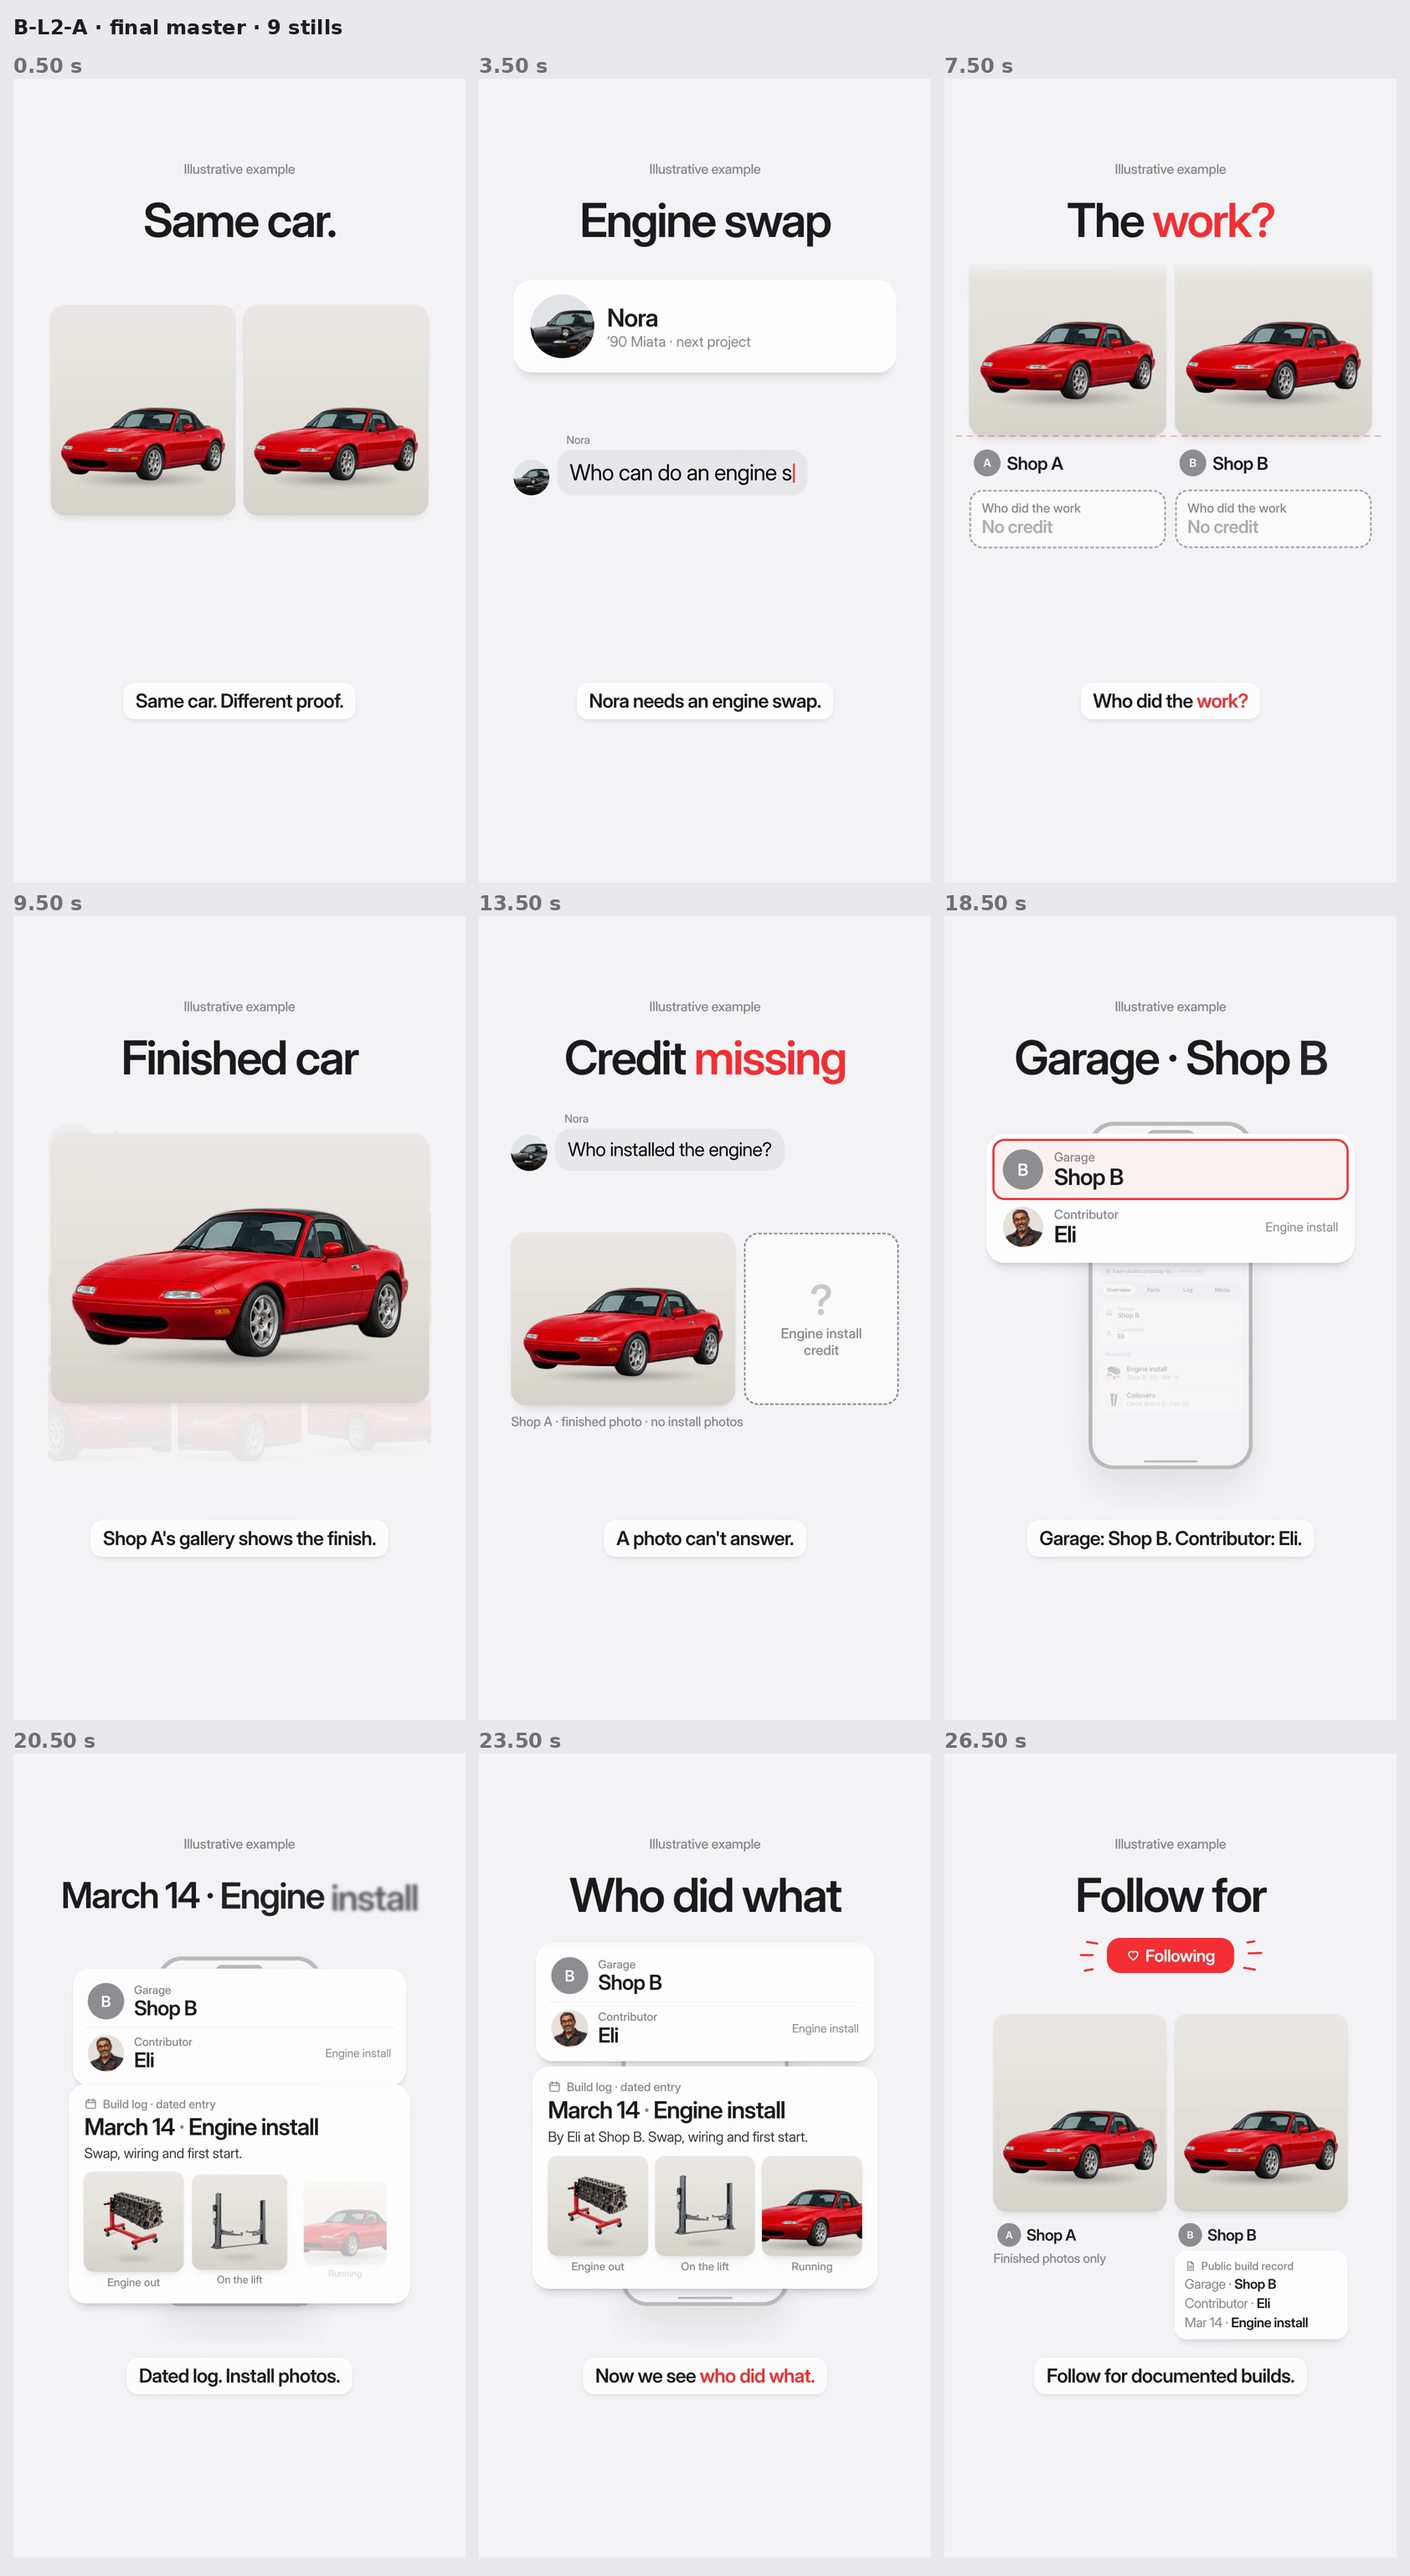
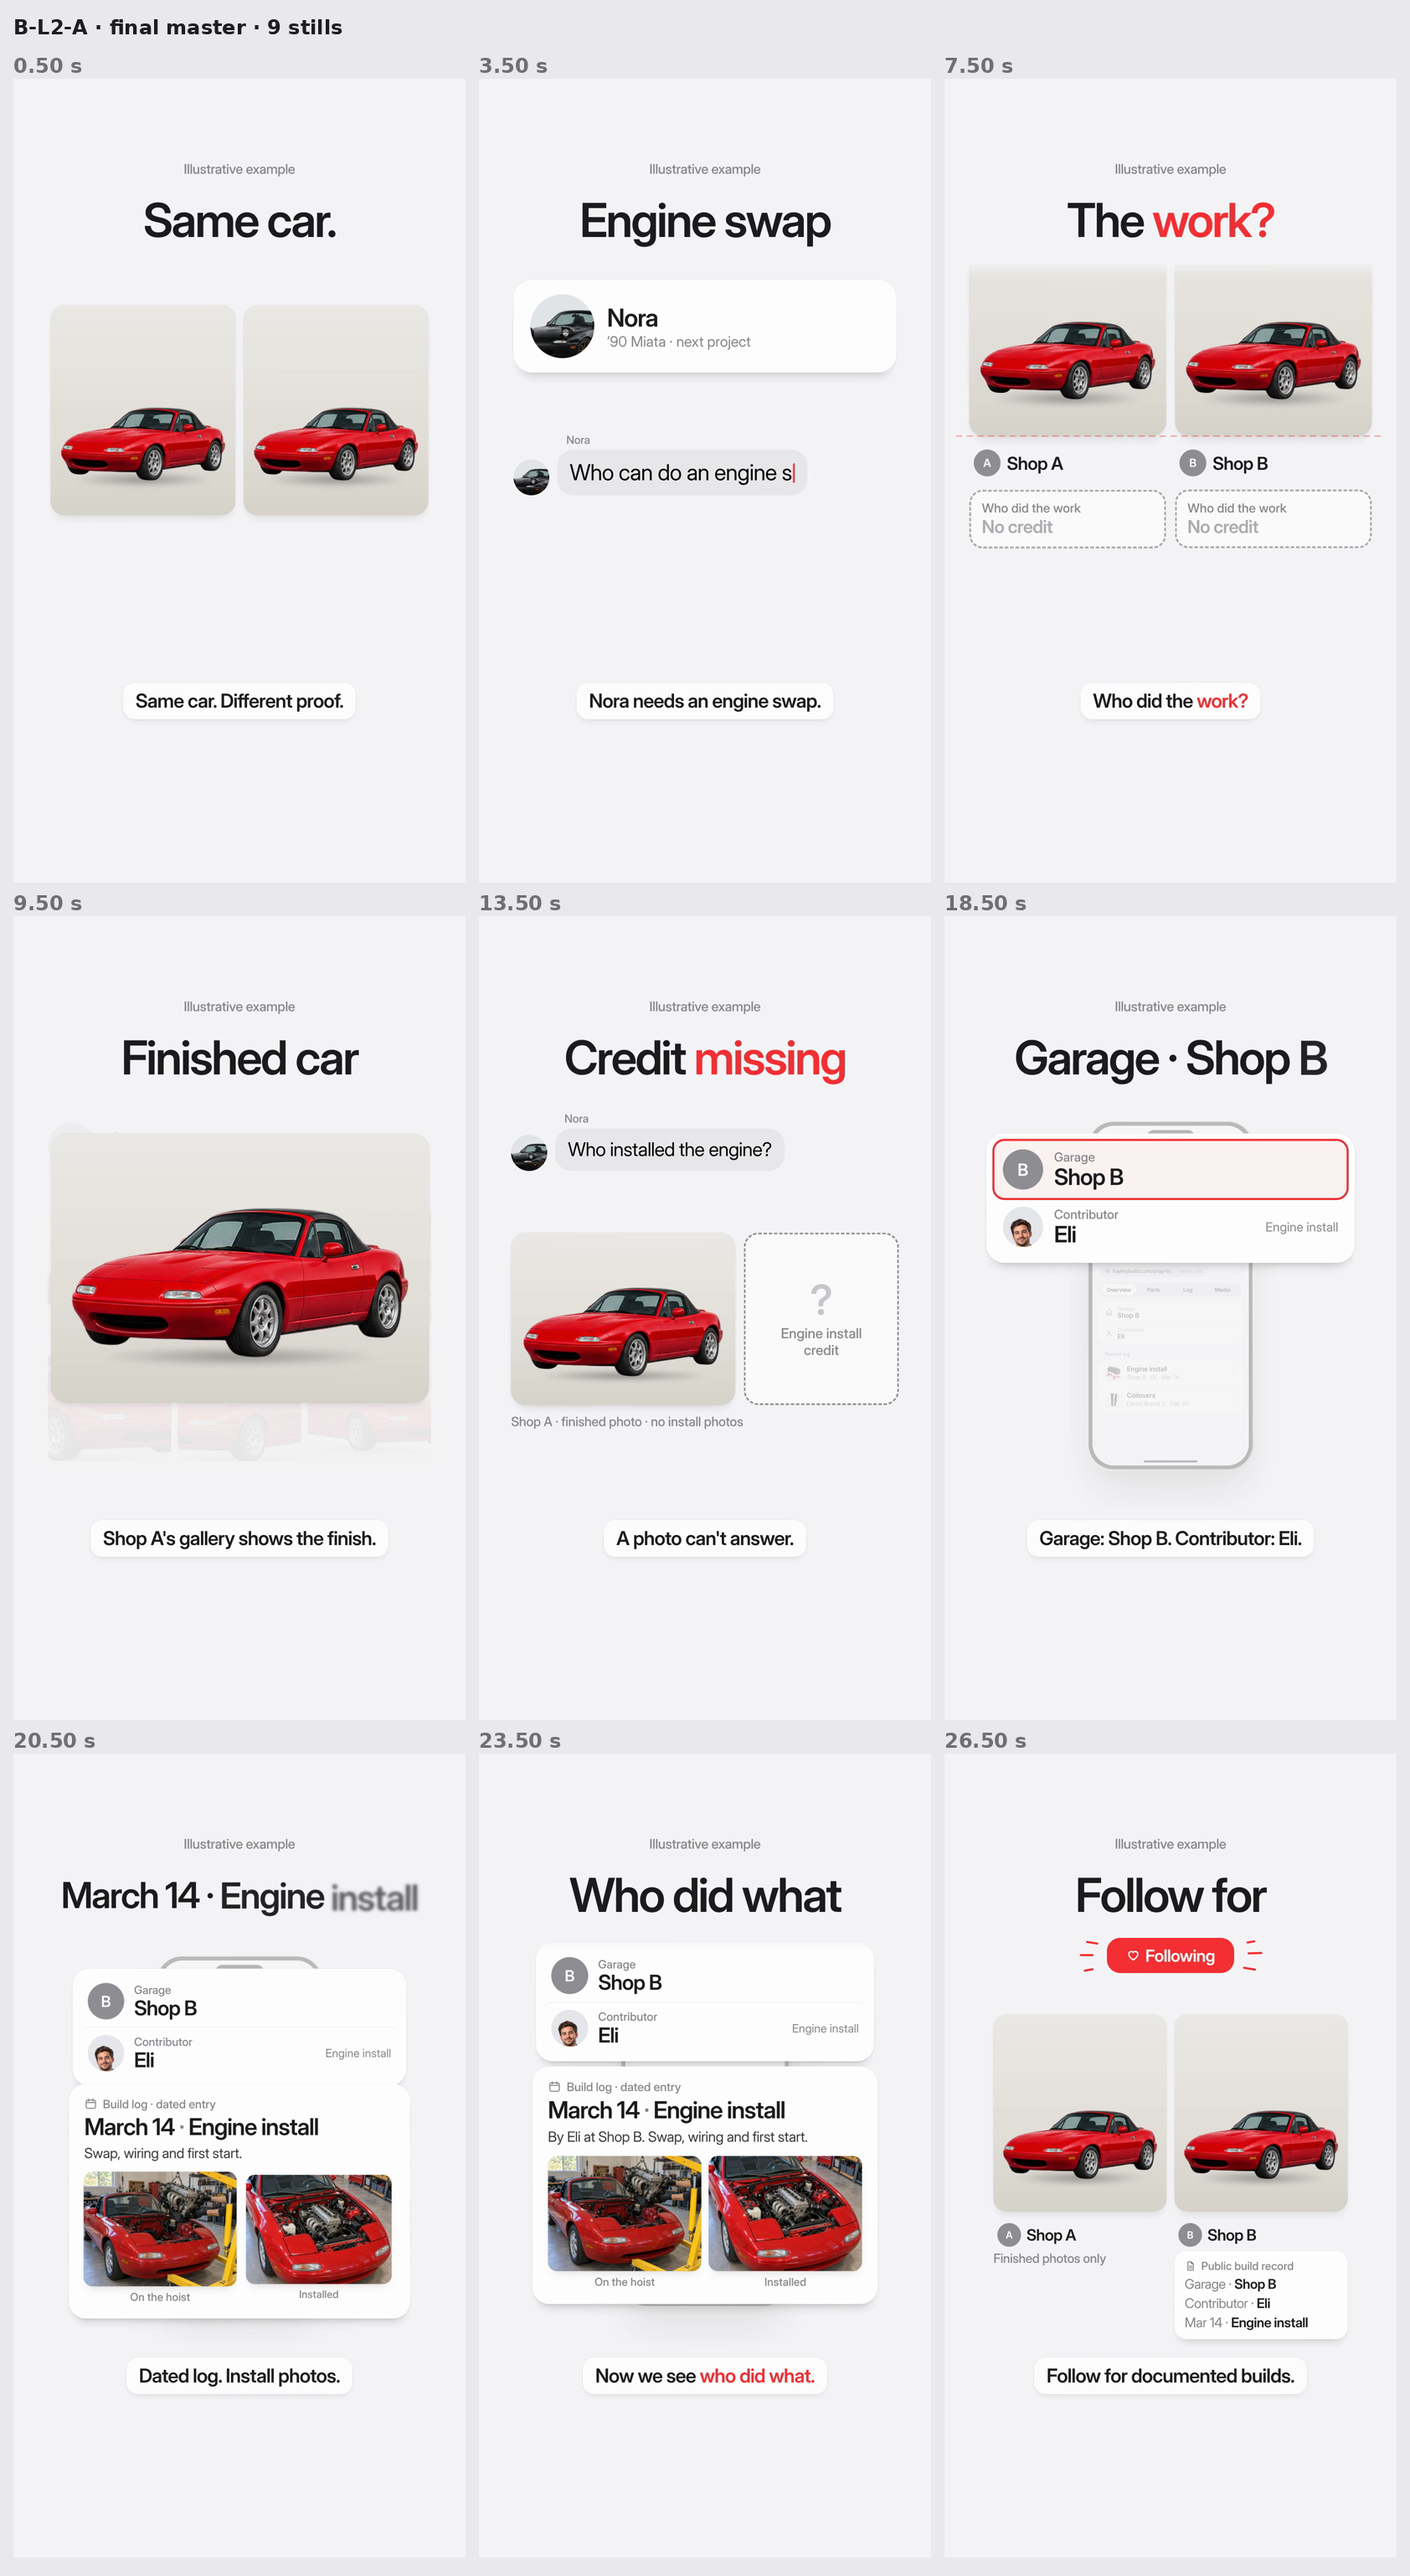
Lab W44 B: real install photos swapped into B-L1..L3; final sheets and change notes
Claude-Session: https://claude.ai/code/session_016g3Ws6RKPFxbXeFgZ5cwJK

diff --git a/weeks/2026-W44/lab/B/changes.md b/weeks/2026-W44/lab/B/changes.md
@@ -70,3 +70,15 @@ Code: `film/` (Remotion + remocn; `src/L1.tsx`, `L2.tsx`, `L3.tsx`, shared `lib.
 - The music ducks 7 dB under every VO window (80 ms attack before the window, 200 ms release after).
 - Masters: -14 LUFS integrated, true peak ≤ -1 dBTP measured on the delivered AAC (not just the wav). The master is gain-matched, true-peak limited at -2.0 dBTP, then encoded and decoded. Any spot where the AAC rings above -1.2 dBTP gets a short local gain dip. This applied to three transients: L1 20.0 (sheet-open) and L2 0.0 (the opening hit on sample 0) and 20.0. Each is a few dB lower for about 60 ms, with its onset unchanged.
 - Beds: the same mix at mix-reference level for Wayne's VO (peaks at -3 dBFS, not loudness-normalised).
+
+## 2026-10-14 · Real install photos swapped in (re-render of B-L1, B-L2, B-L3, hook A)
+Wayne supplied ChatGPT-generated photos and cutouts (`kit/remotion/public/img/lab/`, index in its README). They replace the studio-cutout composites described under "Shared" above. Timings, headlines, subtitles, cues, music, ducking and the audio masters are unchanged (the score re-runs bit-identical, and the beds are byte-identical, so only the three `.mp4` masters were replaced on `renders`).
+- **Photo handling (`lib.tsx`):** a `.jpg` id in `Photo` is a real photo, cover-cropped about a focus point (`pos`) and never stretched; `IMG` accepts file names with extensions; the new files are preloaded. `LogCard` takes 2 or 3 photos and a tile `aspect`. `Triptych` takes per-photo `tpos` crops and a `from.h`, and its labels fade in after the tiles lift (on the first frames, the lifted label sat on the card's identical label).
+- **B-L1:**
+  - 3–5: `b-240z-wheel-closeup.jpg` is the wheel punch-in (lens-zoom into it, slow push toward the caliper), with a 4-frame dissolve at 5.0 into the exterior pull-back. The caliper only shows in slivers between the spokes, so the red loupe stays at 4.0, now over those slivers and magnifying the new assembly's caliper.
+  - 8–13: `b-brake-assembly-cutout.png` is the "Illustration · wheel off". It includes the braided line, so the drawn-on hose is gone and the 12.0 ring isolates the real line. Rings were re-fitted to the caliper, the lower bracket ear and the line. The chips moved inside x 96–984 for the pushed-in camera.
+  - 20–25: `b-240z-log-before/during/after.jpg` fill the log thumbs (square crops on the brake, zoom 1.3), the 21 s portrait strip and the 22–25 viewer. The desaturated before and the glove overlay are gone.
+- **B-L2:** `b-miata-engine-hoist.jpg` ("On the hoist") and `b-miata-engine-installed.jpg` ("Installed") replace the three-cutout set (engine block, car lift, finished-car crop). They sit as two whole 4:3 photos in the log card and enlarge into a 430×640 pair at 21.0. `b-tech-eli-cutout.png` is Eli's contributor avatar (18–24 attribution card), replacing the overused mechanic portrait.
+- **B-L3:** `b-supra-turbo-during.jpg` ("During") and `b-supra-turbo-after.jpg` ("After") replace the vacuum-line, wastegate and kit cutouts. Log tiles are cropped to 0.66 high, so the card keeps its old height above the subtitles at 24–25, and they enlarge into a 430×640 pair at 23.0. The note text still reads "Turbo, wastegate and vacuum lines installed." The 23.0 enlargement now starts from the tiles' real position (it used to start ~390 px low), and its tap moved onto the photos.
+- **Unchanged:** the 240Z, Miata and Supra car cutouts in the hooks, galleries and build pages; the part-01 turbo crop (0–3, 11–13, 27–30); every UI card.
+- **Checks (delivered AAC):** all three are 30.000 s, 900 frames, 1080×1920 at 30 fps, mux offset 0.00 ms, 82 of 82 cues within ±1 frame. B-L1 -14.1 LUFS, -1.5 dBTP; B-L2 -14.1 LUFS, -1.8 dBTP; B-L3 -14.2 LUFS, -1.8 dBTP. Review: 31 stills from the composition and 28 from the masters around the changed beats, with no clipped or overlapping text and "Illustrative example" on every frame. Final sheets regenerated (`storyboard/B-L*-final-sheet.png`).
